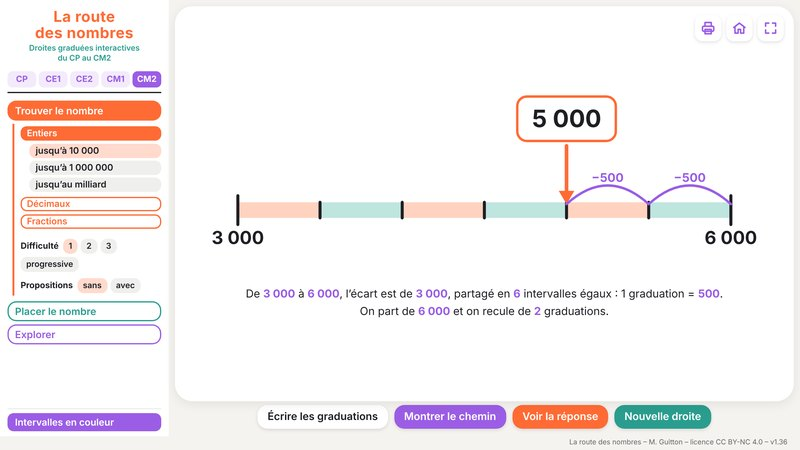
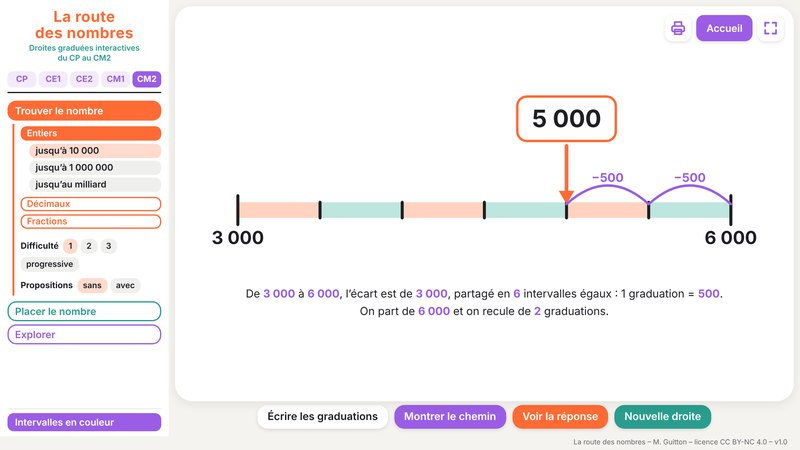
La route des nombres v1.0 : bouton Accueil et picto plein écran comme dans les autres outils
Claude-Session: https://claude.ai/code/session_01Te8xrvMufWVNSVLdwnm9Mc

Changed region(s): [[0.7188, 0.9644, 1.0, 0.9956], [0.8438, 0.0311, 0.9688, 0.0933]]

diff --git a/route-des-nombres/index.html b/route-des-nombres/index.html
@@ -23,7 +23,7 @@
 <script src="../outils.js"></script>
 <script src="../portail.js"></script>
 <!--
-  La route des nombres – M. Guitton – licence CC BY-NC 4.0 – v1.36
+  La route des nombres – M. Guitton – licence CC BY-NC 4.0 – v1.0
   Intégré au portail « Le tableau magique » (bouton Accueil, version, hors ligne : voir ../portail.js).
   Mis au point avec l'aide de Claude AI.
 
@@ -124,15 +124,18 @@
   #dessin{width:100%; height:auto; min-height:0; flex-shrink:1; max-height:calc(100dvh - 250px); display:block; margin:0 auto; user-select:none}
   #dessin.cliquable{cursor:pointer}
 
-  /* Pictos en haut à droite : imprimer, accueil, plein écran */
+  /* En haut à droite : imprimer, Accueil (dans le portail), plein écran */
   .barre-outils{position:absolute; top:14px; right:16px; display:flex; gap:8px; z-index:2}
   .picto{
     width:42px; height:42px; border-radius:12px; background:var(--carte); padding:0; cursor:pointer;
     box-shadow:0 2px 6px rgba(0,0,0,.12); display:grid; place-items:center;
   }
-  .picto svg{width:24px; height:24px}
-  #accueil{display:none}                         /* l'accueil n'existe que dans le portail (classe posée par portail.js) */
-  html.dans-portail #accueil{display:grid}
+  .picto svg{width:26px; height:26px}
+  .picto{color:var(--violet)}
+  /* Bouton « Accueil » du portail, comme dans les autres outils (caché quand le fichier est ouvert seul) */
+  #accueil{display:none; height:42px; padding:0 16px; border-radius:12px; background:var(--violet); color:#fff;
+           font-size:1rem; box-shadow:0 2px 6px rgba(0,0,0,.12)}
+  html.dans-portail #accueil{display:block}
 
   /* Phrase d'aide sous la droite */
   #explication{min-height:2.2em; text-align:center; font-size:1.25rem; line-height:1.9; padding:0 10px}
@@ -197,7 +200,7 @@
     main{padding:8px; min-height:70vh}
     .scene{border-radius:18px; padding:56px 6px 8px}
     #dessin{max-height:none}
-    .picto{width:36px; height:36px}
+    .picto, #accueil{height:36px} .picto{width:36px}
     #explication{font-size:1rem}
     #propositions{gap:8px}
     #propositions button{padding:4px 10px; border-radius:12px}
@@ -271,20 +274,12 @@
   <div class="scene">
     <div class="barre-outils">
       <button id="imprimer" class="picto" title="Fiche Word à imprimer" aria-label="Fiche Word à imprimer">
-        <svg viewBox="0 0 24 24" fill="none" stroke="#9b5de5" stroke-width="2.4" stroke-linecap="round" stroke-linejoin="round">
+        <svg viewBox="0 0 24 24" fill="none" stroke="currentColor" stroke-width="2.4" stroke-linecap="round" stroke-linejoin="round">
           <path d="M7 9V3h10v6"/><rect x="3" y="9" width="18" height="8" rx="2"/><path d="M7 14h10v7H7z"/>
         </svg>
       </button>
-      <a id="accueil" class="picto" href="../" title="Revenir à l'accueil du tableau magique" aria-label="Accueil">
-        <svg viewBox="0 0 24 24" fill="none" stroke="#9b5de5" stroke-width="2.4" stroke-linecap="round" stroke-linejoin="round">
-          <path d="M3 11l9-7 9 7"/><path d="M5 10v10h5v-6h4v6h5V10"/>
-        </svg>
-      </a>
-      <button id="pleinEcran" class="picto" title="Plein écran" aria-label="Plein écran">
-        <svg viewBox="0 0 24 24" fill="none" stroke="#9b5de5" stroke-width="2.4" stroke-linecap="round" stroke-linejoin="round">
-          <path d="M4 9V4h5M15 4h5v5M20 15v5h-5M9 20H4v-5"/>
-        </svg>
-      </button>
+      <button id="accueil" onclick="location.href='../'" title="Revenir à l'accueil du tableau magique">Accueil</button>
+      <button id="pleinEcran" class="picto" title="Plein écran" aria-label="Plein écran"></button>
     </div>
     <svg id="dessin" viewBox="0 0 1000 330" xmlns="http://www.w3.org/2000/svg"></svg>
     <div id="propositions"></div>
@@ -311,7 +306,7 @@
   </div>
 </div>
 
-<footer>La route des nombres – M. Guitton – licence CC BY-NC 4.0<span class="app-version"> – v1.36</span></footer>
+<footer>La route des nombres – M. Guitton – licence CC BY-NC 4.0<span class="app-version"> – v1.0</span></footer>
 
 <script>
 'use strict';
@@ -321,7 +316,7 @@
    ===================================================================== */
 
 // Signature (pied de page et fiches Word) ; la version vient du portail (outils.js) quand il est là
-const VERSION = 'v' + ((self.OUTILS || []).find(o => o.dossier === 'route-des-nombres') || { version: '1.36' }).version;
+const VERSION = 'v' + ((self.OUTILS || []).find(o => o.dossier === 'route-des-nombres') || { version: '1.0' }).version;
 const SIGNATURE = 'La route des nombres – M. Guitton – licence CC BY-NC 4.0 – ' + VERSION;
 
 // Niveaux proposés pour chaque type de nombres
@@ -1246,11 +1241,21 @@ document.addEventListener('keydown', e => {
   if (e.code === 'ArrowRight') nouvelleDroite();
 });
 
-// Plein écran (le picto Accueil est un simple lien vers le portail)
-document.getElementById('pleinEcran').onclick = () => {
+// Plein écran : même picto que dans les autres outils du portail (4 coins vers l'extérieur ou vers l'intérieur)
+const btnPleinEcran = document.getElementById('pleinEcran');
+const PICTO_ENTRER = '<svg viewBox="0 0 24 24" fill="none" stroke="currentColor" stroke-width="2.6" stroke-linecap="round" stroke-linejoin="round"><path d="M4 9V4h5M15 4h5v5M20 15v5h-5M9 20H4v-5"/></svg>';
+const PICTO_SORTIR = '<svg viewBox="0 0 24 24" fill="none" stroke="currentColor" stroke-width="2.6" stroke-linecap="round" stroke-linejoin="round"><path d="M9 4v5H4M20 9h-5V4M15 20v-5h5M4 15h5v5"/></svg>';
+function majPleinEcran() {
+  const plein = !!document.fullscreenElement;
+  btnPleinEcran.innerHTML = plein ? PICTO_SORTIR : PICTO_ENTRER;
+  btnPleinEcran.title = btnPleinEcran.ariaLabel = plein ? 'Quitter le plein écran' : 'Plein écran';
+}
+btnPleinEcran.onclick = () => {
   if (document.fullscreenElement) document.exitFullscreen();
-  else document.documentElement.requestFullscreen?.();
+  else document.documentElement.requestFullscreen?.().catch(() => {});
 };
+document.addEventListener('fullscreenchange', majPleinEcran);
+majPleinEcran();
 
 // Mémorisation des derniers réglages sur cet ordinateur
 const CLE_MEMOIRE = 'route-des-nombres';

diff --git a/outils.js b/outils.js
@@ -121,7 +121,7 @@ self.OUTILS = [
   },
   {
     dossier: 'route-des-nombres',
-    version: '1.36',
+    version: '1.0',
     nom: 'La route des nombres',
     niveau: 'du CP au CM2',
     texte: 'Des droites graduées à projeter, sur le modèle des évaluations nationales. Trouver le nombre montré par la flèche, '
